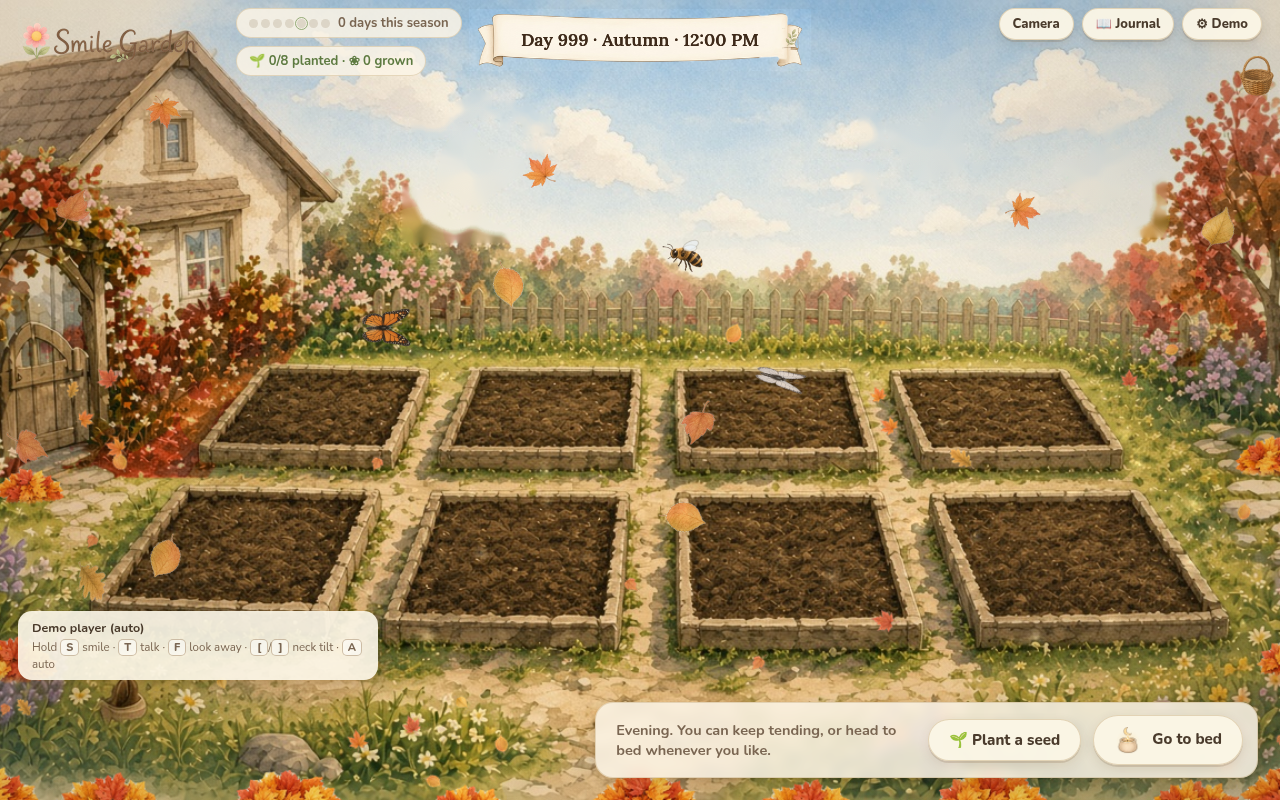
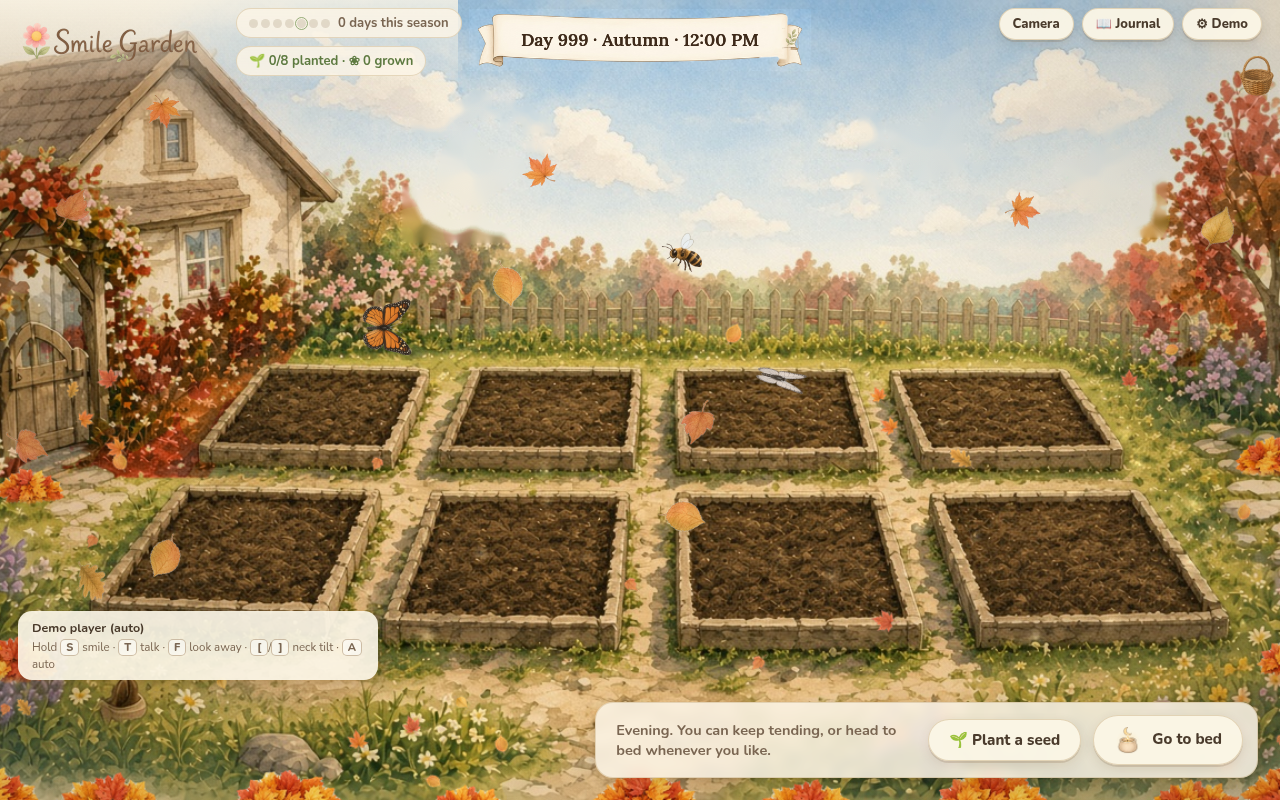
Restore local cream HUD wash left of clock keep-out
Add a topbar ::before gradient over logo and stat chips only (capped at
468px) so painted-clock mode keeps ribbon canvas ink clear. Paint the
same wash on canvas when the logo falls back to bitmap HUD drawing.

Changed region(s): [[0.0, 0.0, 0.375, 0.0938], [0.2812, 0.375, 0.3438, 0.4375], [0.5312, 0.3125, 0.5625, 0.3438]]

diff --git a/renderer/styles.css b/renderer/styles.css
@@ -100,8 +100,28 @@ body[data-painted-clock="1"] .topbar {
     height: auto;
     padding: 8px 18px;
     pointer-events: none;
-    /* Clock ribbon + label are painted on the garden canvas; no HTML wash over the HUD band. */
-    background: linear-gradient(to bottom, transparent, transparent);
+    /* Clock ribbon + label are on canvas; keep the bar clear over CLOCK_KEEP_OUT (left ≥ ~486). */
+    background: transparent;
+    isolation: isolate;
+}
+/* Soft cream over logo + stat chips only (left of the painted clock keep-out). */
+body[data-painted-clock="1"] .topbar::before {
+    content: '';
+    position: absolute;
+    left: 0;
+    top: 0;
+    bottom: 0;
+    width: min(
+        468px,
+        calc(var(--hud-logo-width) + var(--hud-logo-gap) + var(--hud-chips-max, 300px) + 36px)
+    );
+    background: linear-gradient(to bottom, rgba(251, 245, 230, 0.82), rgba(251, 245, 230, 0));
+    pointer-events: none;
+    z-index: 0;
+}
+body[data-painted-clock="1"] .topbar > * {
+    position: relative;
+    z-index: 1;
 }
 body[data-painted-clock="1"] .topbar .chip,
 body[data-painted-clock="1"] .topbar .btn { pointer-events: auto; }

diff --git a/renderer/scene.js b/renderer/scene.js
@@ -1691,6 +1691,19 @@
             ctx.restore();
         }
 
+        function drawLeftHudBrandWash() {
+            const k = clockRibbonKeepOut();
+            const washRight = Math.min(k.left - 16, 468);
+            if (washRight < 96) return;
+            ctx.save();
+            const g = ctx.createLinearGradient(0, 0, 0, 96);
+            g.addColorStop(0, 'rgba(251, 245, 230, 0.82)');
+            g.addColorStop(1, 'rgba(251, 245, 230, 0)');
+            ctx.fillStyle = g;
+            ctx.fillRect(0, 0, washRight, 96);
+            ctx.restore();
+        }
+
         function drawLogoHud() {
             const hud = ART.logoHud;
             if (!hud) return;
@@ -1704,6 +1717,7 @@
             const nightReady = ready(logoNightImg);
             refreshLogoOnCanvas();
             if (!logoOnCanvas) return;
+            drawLeftHudBrandWash();
             const { x, y, w, h } = hud;
             const [sw, sh] = hud.srcPixels || [w * 2, h * 2];
             if (dayReady && layers.day > 0.02) {
